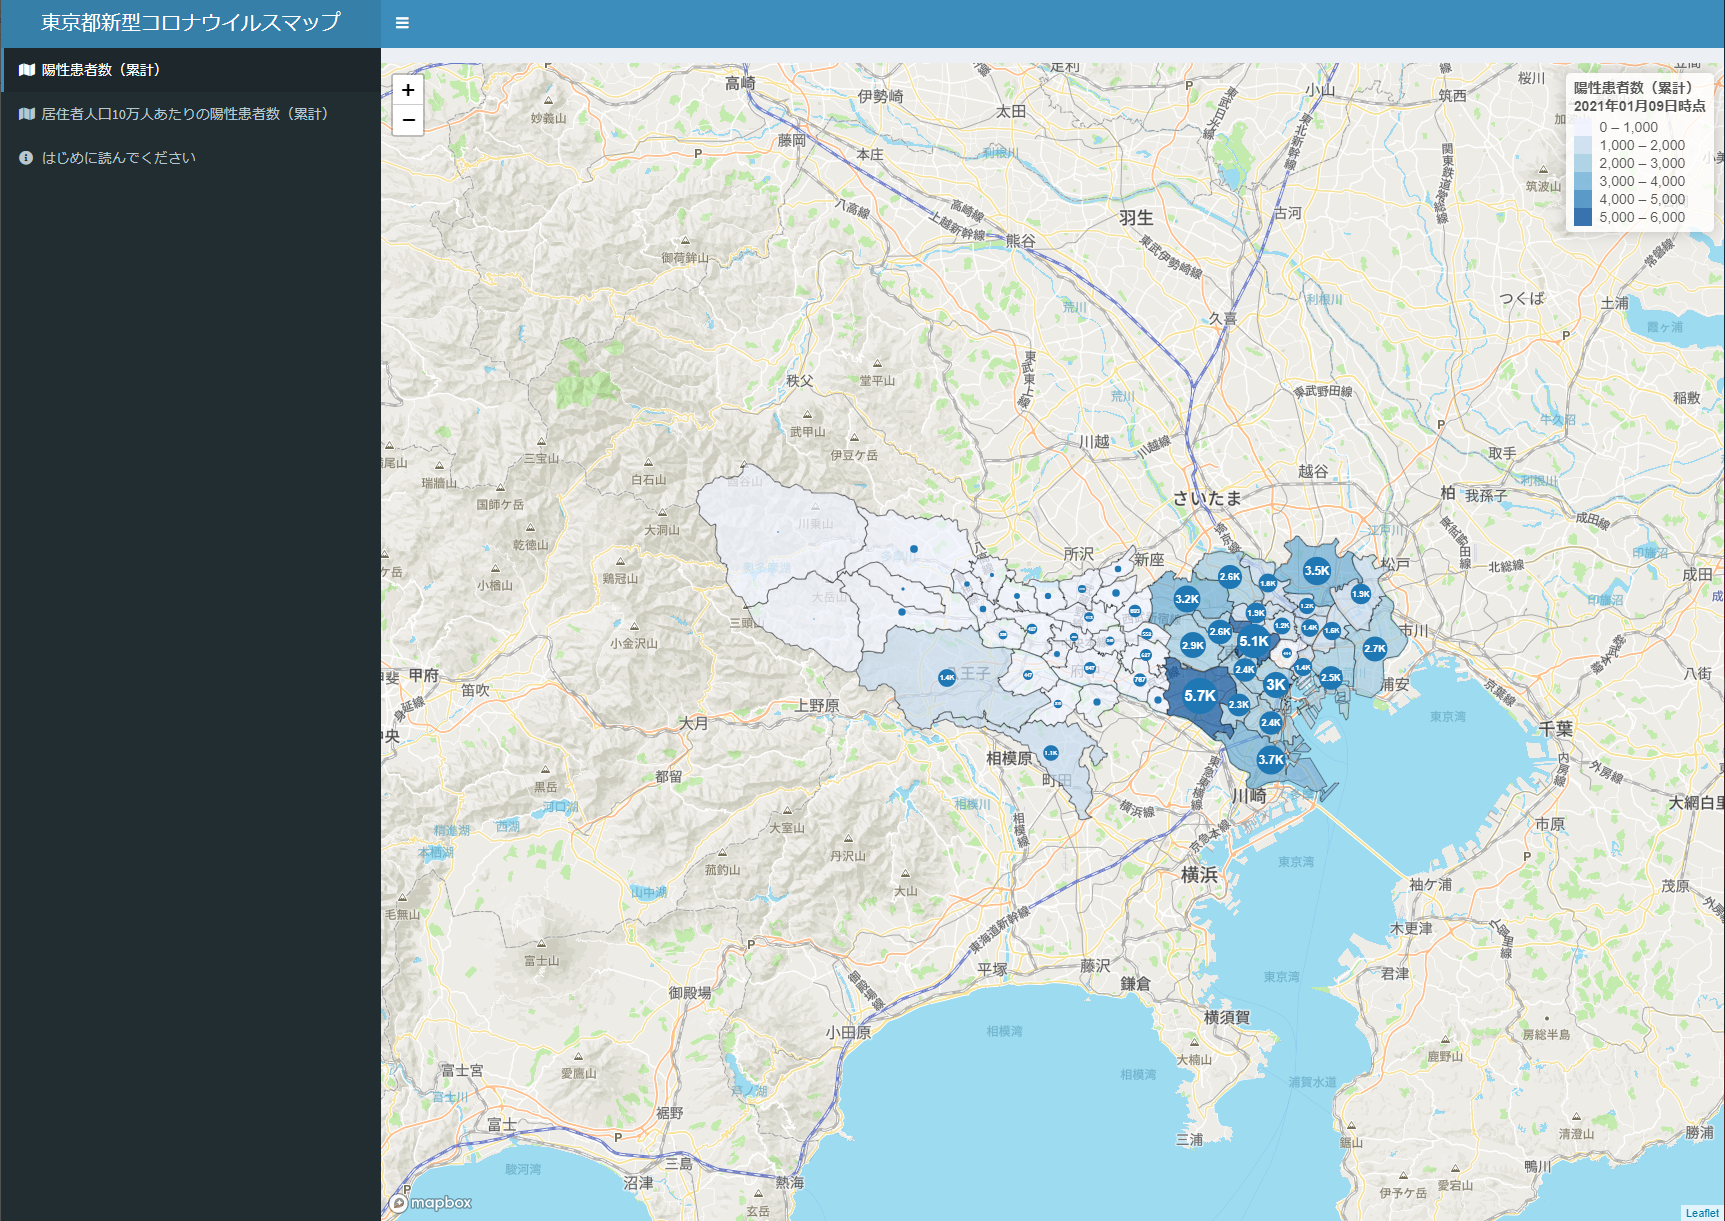
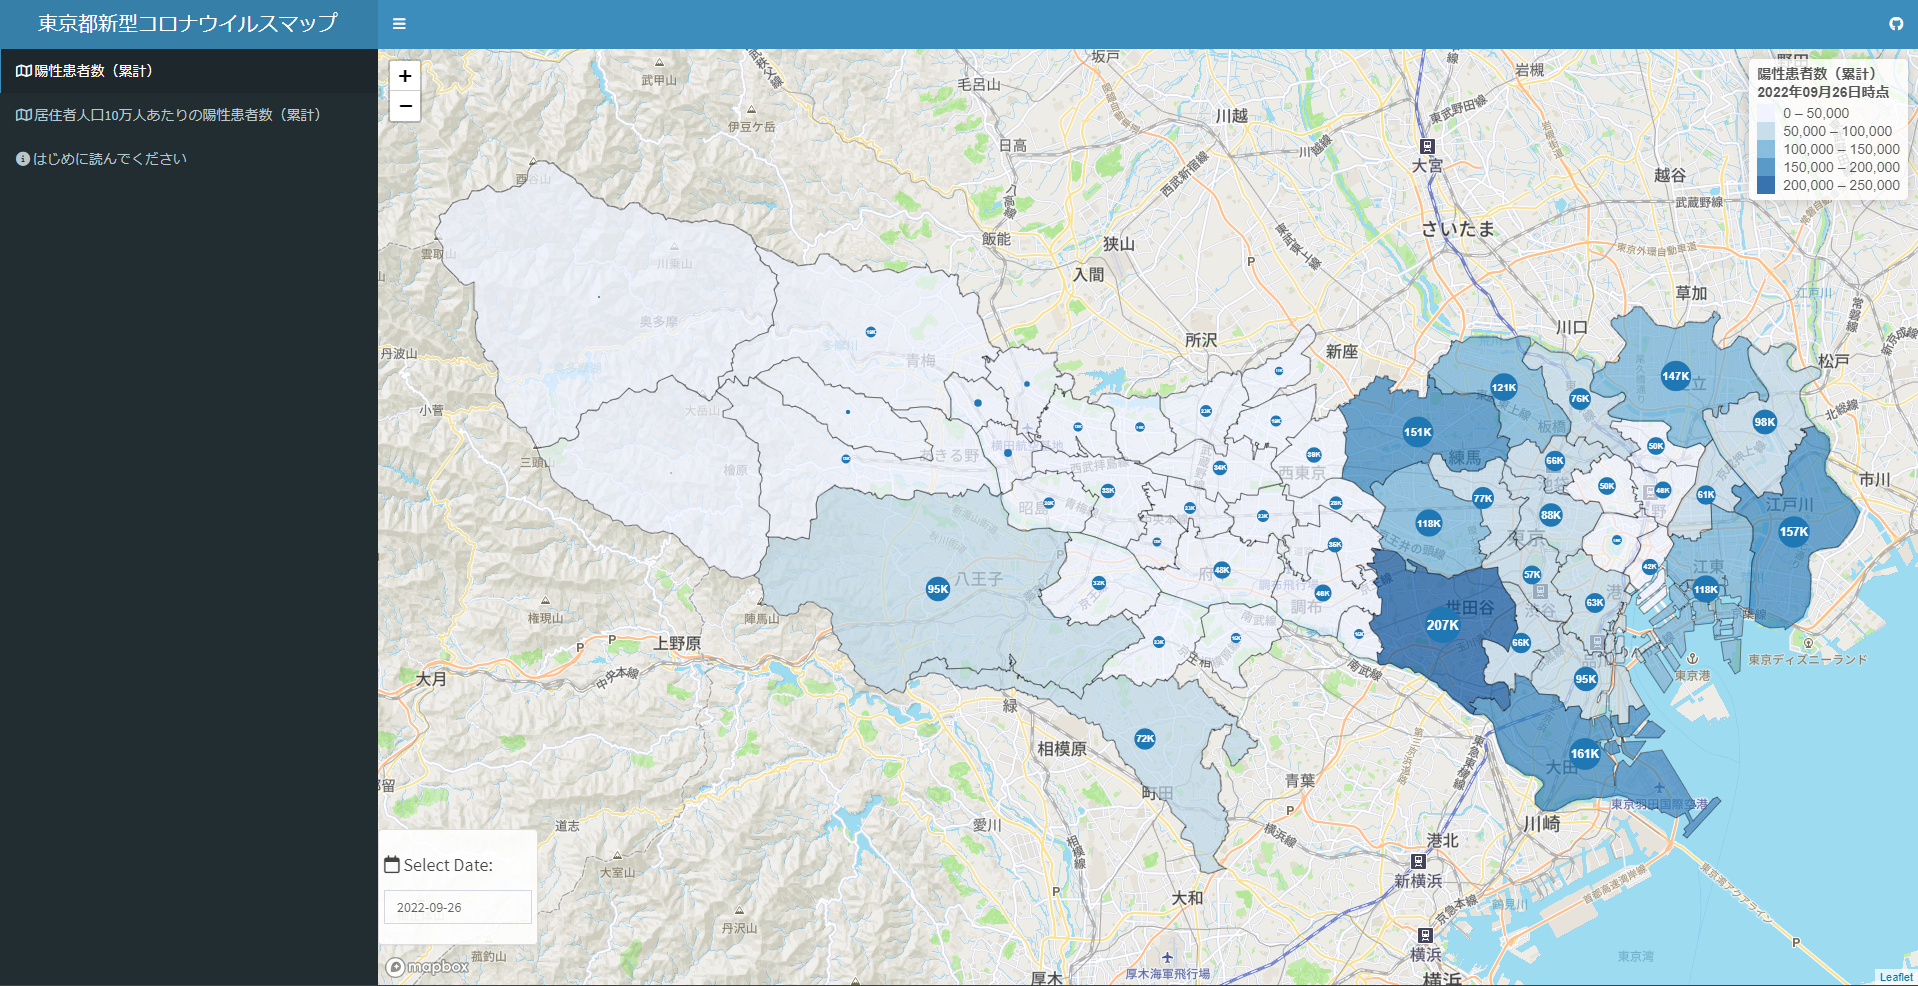
Update

diff --git a/webapp/index.html b/webapp/index.html
@@ -73,12 +73,30 @@
         <h2 class="my-1 py-1 mx-1 px-2 w-100 text-white bg-primary shadow rounded"><small><span class="fas fa-book"></span> Shiny App</small></h2>
         
         <!-- CARD START -->
-        <div class="col-lg-3 mb-1 px-1">
+        <div class="col-lg-4 mb-1 px-1">
+          <div class="card border-primary shadow h-100">
+            <a href="https://keisuke-kondo.shinyapps.io/regional-attractiveness-kansai/" target="_blank"><img class="card-img-top" src="img/regional-attractiveness-japan.png" alt="Card image"></a>
+            <div class="card-body py-2 px-2">
+              <h3 class="card-title"><small><b>Regional Attractiveness Index</b></small></h3>
+              <p class="card-text">This shiny app visualizes the regional attractiveness index, estiamted from the Mobile Spatial Statistics® of NTT DOCOMO. The concent is proposed in Kondo (2023).</p>
+              <p class="card-text"><span class="fas fa-external-link-square-alt"></span> Regional Attractiveness Index<br />
+              <a href="https://keisuke-kondo.shinyapps.io/regional-attractiveness-japan/" target="_blank">https://keisuke-kondo.shinyapps.io/regional-attractiveness-japan/</a></p>
+              <p class="card-text"><span class="fas fa-file-pdf"></span> Kondo, K. Measuring the Attractiveness of Trip Destinations: A Study of the Kansai Region. RIEB Discussion Paper Series No.2023-07 (2023). <a href="https://www.rieb.kobe-u.ac.jp/academic/ra/dp/English/dp2023-07.html" target="_blank">https://www.rieb.kobe-u.ac.jp/academic/ra/dp/English/dp2023-07.html</a></p>
+            </div>
+            <div class="card-footer text-muted py-2 px-2">
+              Upload: November 10, 2023
+            </div>
+          </div>
+        </div>
+        <!-- CARD END -->
+        
+        <!-- CARD START -->
+        <div class="col-lg-4 mb-1 px-1">
           <div class="card border-primary shadow h-100">
             <a href="https://keisuke-kondo.shinyapps.io/regional-attractiveness-kansai/" target="_blank"><img class="card-img-top" src="img/regional-attractiveness-kansai.png" alt="Card image"></a>
             <div class="card-body py-2 px-2">
               <h3 class="card-title"><small><b>Regional Attractiveness Index</b></small></h3>
-              <p class="card-text">This shiny app visualizes the regional attractiveness index proposed by Kondo (2023).</p>
+              <p class="card-text">This shiny app visualizes the regional attractiveness index, estimated from the 2010 Person Trip Survey in the Kansai region. The concent is proposed in Kondo (2023).</p>
               <p class="card-text"><span class="fas fa-external-link-square-alt"></span> Regional Attractiveness Index (jp)<br />
               <a href="https://keisuke-kondo.shinyapps.io/regional-attractiveness-kansai/" target="_blank">https://keisuke-kondo.shinyapps.io/regional-attractiveness-kansai/</a></p>
               <p class="card-text"><span class="fas fa-file-pdf"></span> Kondo, K. Measuring the Attractiveness of Trip Destinations: A Study of the Kansai Region. RIEB Discussion Paper Series No.2023-07 (2023). <a href="https://www.rieb.kobe-u.ac.jp/academic/ra/dp/English/dp2023-07.html" target="_blank">https://www.rieb.kobe-u.ac.jp/academic/ra/dp/English/dp2023-07.html</a></p>
@@ -91,7 +109,7 @@
         <!-- CARD END -->
         
         <!-- CARD START -->
-        <div class="col-lg-3 mb-1 px-1">
+        <div class="col-lg-4 mb-1 px-1">
           <div class="card border-primary shadow h-100">
             <a href="https://keisuke-kondo.shinyapps.io/migration-simulator-en/" target="_blank"><img class="card-img-top" src="img/migration-simulator-jp.png" alt="Card image"></a>
             <div class="card-body py-2 px-2">
@@ -111,7 +129,7 @@
         <!-- CARD END -->
         
         <!-- CARD START -->
-        <div class="col-lg-3 mb-1 px-1">
+        <div class="col-lg-6 mb-1 px-1">
           <div class="card border-primary shadow h-100">
             <a href="https://keisuke-kondo.shinyapps.io/covid19-simulator-japan/" target="_blank"><img class="card-img-top" src="img/covid19-simulator-japan.png" alt="Card image cap"></a>
             <div class="card-body py-2 px-2">
@@ -128,17 +146,17 @@
         <!-- CARD END -->
         
         <!-- CARD START -->
-        <div class="col-lg-3 mb-1 px-1">
+        <div class="col-lg-6 mb-1 px-1">
           <div class="card border-primary shadow h-100">
             <a href="https://keisuke-kondo.shinyapps.io/stopcovid19tokyo/" target="_blank"><img class="card-img-top" src="img/covid19-map-tokyo.png" alt="Card image"></a>
             <div class="card-body py-2 px-2">
               <h3 class="card-title"><small><b>COVID-19 Map in Tokyo</b></small></h3>
-              <p class="card-text">This shiny app visualizes the geographical distribution of COVID-19 in Tokyo.</p>
+              <p class="card-text">This shiny app visualizes the geographical distribution of COVID-19 infections in Tokyo.</p>
               <p class="card-text"><span class="fas fa-external-link-square-alt"></span> COVID-19 Map in Tokyo <br /><a href="https://keisuke-kondo.shinyapps.io/stopcovid19tokyo/" target="_blank">https://keisuke-kondo.shinyapps.io/stopcovid19tokyo/</a></p>
               <p class="card-text"><span class="fa fa-warning text-warning"></span> The renewal of municipal data was terminated as of September 26, 2022.</p>
             </div>
             <div class="card-footer text-muted py-2 px-2">
-              Update: December 22, 2022
+              Update: November 10, 2023
             </div>
           </div>
         </div>

diff --git a/index.html b/index.html
@@ -118,6 +118,13 @@
                   <h3 class="text-white bg-primary rounded py-1 px-2"><span class="fas fa-fire"></span> News</h3>
                   
                   <!-- ITEM START -->
+                  <h4 class="border-bottom border-primary my-0"><small><span class="fas fa-file-alt"></span> November 10, 2023: Web App</small></h4>
+                  <p>
+                    <b>Regional Attractiveness Index.</b> This shiny app visualizes the regional attractiveness index, estiamted from the Mobile Spatial Statistics® of NTT DOCOMO. The concent is proposed in Kondo (2023, RIEB DP 2023-07). <a href="https://keisuke-kondo.shinyapps.io/regional-attractiveness-japan/" target="_blank">Shiny App</a>
+                  </p>
+                  <!-- ITEM END -->
+                  
+                  <!-- ITEM START -->
                   <h4 class="border-bottom border-primary my-0"><small><span class="fas fa-file-alt"></span> April 13, 2023: Web Article </small></h4>
                   <p>
                     <b>Future of Cities Beyond the COVID-19 Crisis.</b> FORE, Vol. 127 (2023), Real Estate Companies Association of Japan. <a href="https://www.fdk.or.jp/t_fore/e-book/fore_no127/index.html" target="_blank">E-Book (jp)</a> | <a href="https://www.fdk.or.jp/t_fore/pdf/fore_no127.pdf" target="_blank">PDF (jp)</a>
@@ -127,7 +134,7 @@
                   <!-- ITEM START -->
                   <h4 class="border-bottom border-primary my-0"><small><span class="fas fa-file-alt"></span> March 31, 2023: Web App</small></h4>
                   <p>
-                    <b>Regional Attractiveness Index.</b> This shiny app visualizes the regional attractiveness index proposed by Kondo (2023, RIEB DP 2023-07). <a href="https://keisuke-kondo.shinyapps.io/regional-attractiveness-kansai/" target="_blank">Shiny App (jp)</a>
+                    <b>Regional Attractiveness Index.</b> This shiny app visualizes the regional attractiveness index, estimated from the 2010 Person Trip Survey in the Kansai region. The concent is proposed in Kondo (2023, RIEB DP 2023-07). <a href="https://keisuke-kondo.shinyapps.io/regional-attractiveness-kansai/" target="_blank">Shiny App (jp)</a>
                   </p>
                   <!-- ITEM END -->
                   
